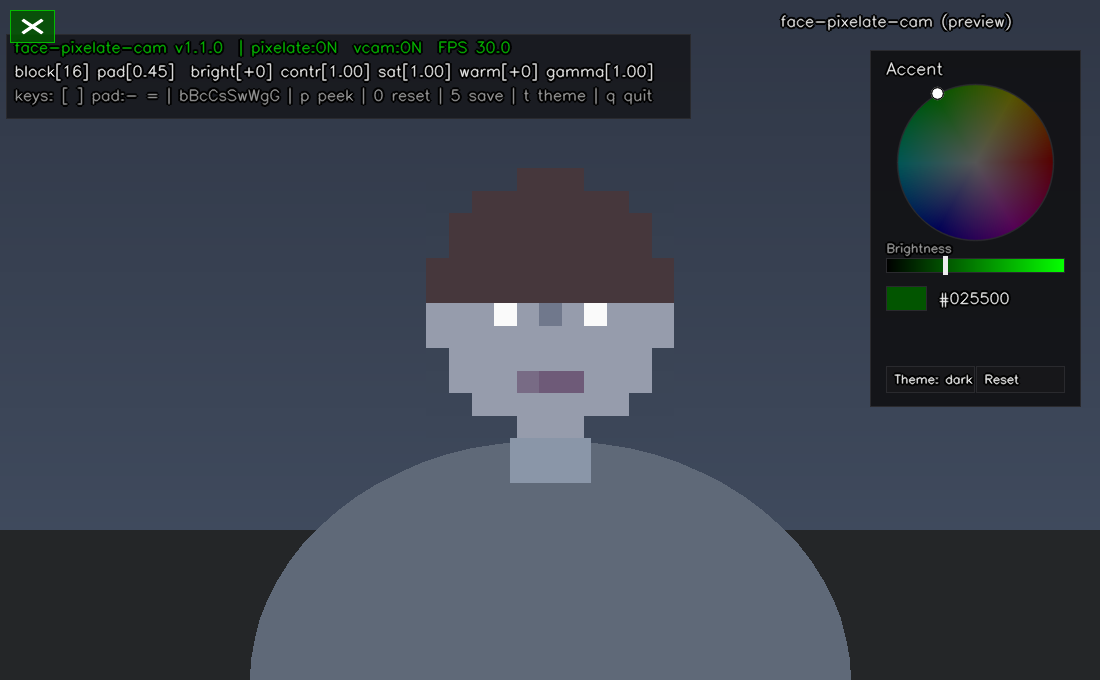
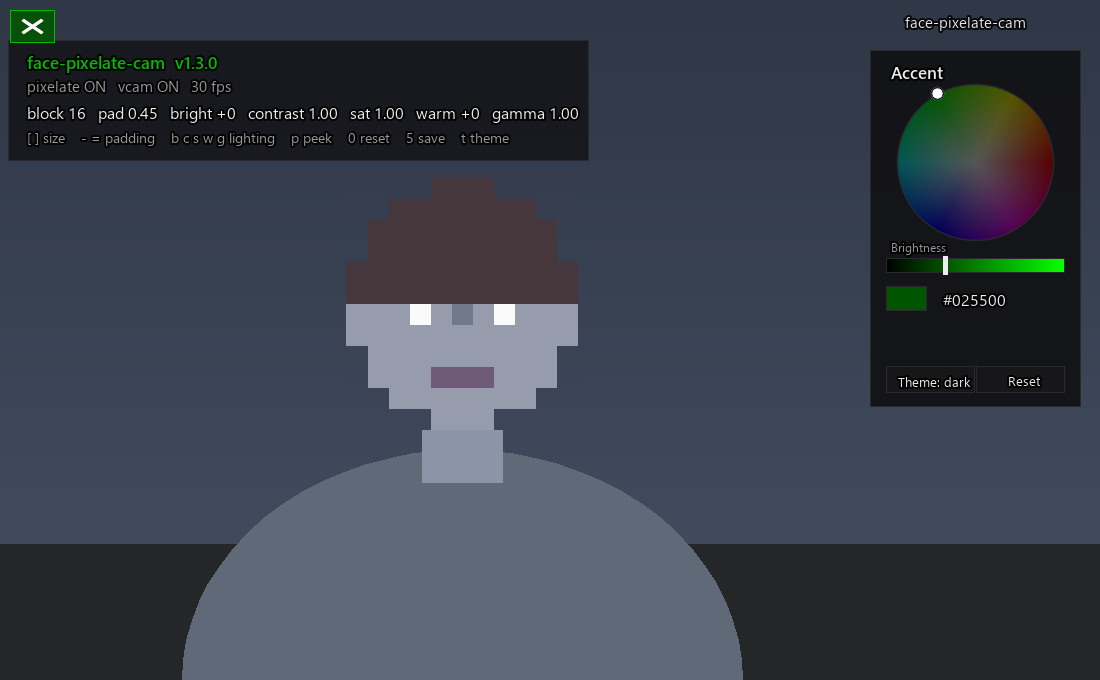
feat: professional TrueType font rendering (Pillow/Segoe UI) with caching (v1.3.0)

diff --git a/pixelate_cam.py b/pixelate_cam.py
@@ -66,6 +66,123 @@ try:
 except ImportError:
     HAVE_VCAM = False
 
+try:
+    from PIL import Image, ImageDraw, ImageFont
+    HAVE_PIL = True
+except ImportError:
+    HAVE_PIL = False
+
+
+# ---------------------------------------------------------------------------
+# Professional text rendering via a real TrueType font (Pillow). Falls back to
+# OpenCV's cleaner DUPLEX Hershey font if Pillow or the font is unavailable.
+# Text is rendered to small RGBA patches and alpha-composited onto the frame,
+# so only the text region is touched (no full-frame conversion per string).
+# ---------------------------------------------------------------------------
+
+# Preferred fonts, in order. Segoe UI ships on every Windows machine.
+_FONT_FILES = {
+    False: [r"C:\Windows\Fonts\segoeui.ttf", r"C:\Windows\Fonts\arial.ttf"],
+    True:  [r"C:\Windows\Fonts\seguisb.ttf", r"C:\Windows\Fonts\segoeuib.ttf",
+            r"C:\Windows\Fonts\arialbd.ttf", r"C:\Windows\Fonts\segoeui.ttf"],
+}
+_FONT_CACHE = {}
+
+
+def _load_font(size, bold=False):
+    if not HAVE_PIL:
+        return None
+    key = (int(size), bool(bold))
+    if key in _FONT_CACHE:
+        return _FONT_CACHE[key]
+    font = None
+    for path in _FONT_FILES[bool(bold)]:
+        try:
+            font = ImageFont.truetype(path, int(size))
+            break
+        except Exception:
+            continue
+    if font is None:
+        try:
+            font = ImageFont.load_default()
+        except Exception:
+            font = None
+    _FONT_CACHE[key] = font
+    return font
+
+
+def text_width(text, size=16, bold=False):
+    """Pixel width of `text` in the current font (for layout/right-align)."""
+    font = _load_font(size, bold)
+    if font is None:
+        return int(len(text) * size * 0.55)
+    l, _, r, _ = font.getbbox(text)
+    return int(r - l)
+
+
+_TEXT_CACHE = {}
+
+
+def _render_text_patch(text, size, bold, color_bgr, outline):
+    """Render text to a cached BGRA patch (B,G,R,alpha as float32 0..1 alpha).
+
+    Cached by content so steady-state overlays only pay compositing cost, not
+    re-rasterization. Returns (bgr_float, alpha) or None if PIL unavailable.
+    """
+    font = _load_font(size, bold)
+    if font is None:
+        return None
+    key = (text, int(size), bool(bold), tuple(color_bgr), int(outline))
+    cached = _TEXT_CACHE.get(key)
+    if cached is not None:
+        return cached
+    l, t, r, b = font.getbbox(text, stroke_width=outline)
+    pad = outline + 1
+    pw, ph = (r - l) + pad * 2, (b - t) + pad * 2
+    img = Image.new("RGBA", (max(1, pw), max(1, ph)), (0, 0, 0, 0))
+    draw = ImageDraw.Draw(img)
+    fill = (color_bgr[2], color_bgr[1], color_bgr[0], 255)          # BGR -> RGB
+    draw.text((pad - l, pad - t), text, font=font, fill=fill,
+              stroke_width=outline, stroke_fill=(0, 0, 0, 210))
+    arr = np.asarray(img)
+    bgr = arr[..., 2::-1].astype(np.float32)                        # RGB -> BGR
+    alpha = arr[..., 3:4].astype(np.float32) / 255.0
+    out = (bgr, alpha)
+    _TEXT_CACHE[key] = out
+    if len(_TEXT_CACHE) > 160:
+        _TEXT_CACHE.pop(next(iter(_TEXT_CACHE)))
+    return out
+
+
+def blit_text(frame, text, xy, color_bgr, size=16, bold=False, outline=2):
+    """Draw `text` at top-left `xy` onto the BGR `frame` in-place (TTF)."""
+    if not text:
+        return
+    patch = _render_text_patch(text, size, bold, color_bgr, outline)
+    if patch is None:
+        # Hershey fallback (DUPLEX is noticeably cleaner than SIMPLEX).
+        scale = size / 30.0
+        base = (int(xy[0]), int(xy[1]) + int(size * 0.9))
+        if outline:
+            cv2.putText(frame, text, base, cv2.FONT_HERSHEY_DUPLEX, scale,
+                        (0, 0, 0), 3, cv2.LINE_AA)
+        cv2.putText(frame, text, base, cv2.FONT_HERSHEY_DUPLEX, scale,
+                    color_bgr, 1, cv2.LINE_AA)
+        return
+    bgr, alpha = patch
+    ph, pw = bgr.shape[:2]
+    x, y = int(xy[0]), int(xy[1])
+    fh, fw = frame.shape[:2]
+    x0, y0 = max(0, x), max(0, y)
+    x1, y1 = min(fw, x + pw), min(fh, y + ph)
+    if x1 <= x0 or y1 <= y0:
+        return
+    sx0, sy0 = x0 - x, y0 - y
+    a = alpha[sy0:sy0 + (y1 - y0), sx0:sx0 + (x1 - x0)]
+    c = bgr[sy0:sy0 + (y1 - y0), sx0:sx0 + (x1 - x0)]
+    roi = frame[y0:y1, x0:x1].astype(np.float32)
+    frame[y0:y1, x0:x1] = (c * a + roi * (1 - a)).astype(np.uint8)
+
 
 if getattr(sys, "frozen", False):
     # Running inside a PyInstaller one-file exe: bundled data (the model) is
@@ -110,7 +227,7 @@ def fatal(msg):
 # silently ignored so they never disrupt streaming.
 # ---------------------------------------------------------------------------
 
-APP_VERSION = "1.2.0"
+APP_VERSION = "1.3.0"
 REPO = "phurteau/face-pixelate-cam"
 RELEASES_PAGE = f"https://github.com/{REPO}/releases/latest"
 # How long the banner stays on screen (seconds) before auto-hiding, so it never
@@ -560,14 +677,6 @@ def point_in_button(x, y):
     return bx <= x <= bx + bw and by <= y <= by + bh
 
 
-def _text(frame, text, org, color, scale=0.5, thick=1):
-    """Draw text with a subtle dark outline so it stays legible over video."""
-    cv2.putText(frame, text, org, cv2.FONT_HERSHEY_SIMPLEX, scale,
-                (0, 0, 0), thick + 2, cv2.LINE_AA)
-    cv2.putText(frame, text, org, cv2.FONT_HERSHEY_SIMPLEX, scale,
-                color, thick, cv2.LINE_AA)
-
-
 def draw_button(frame, show_help, th):
     """Corner show/hide button. Neutral panel surface; active state fills accent."""
     x, y, w, h = UI_BUTTON
@@ -595,44 +704,46 @@ def draw_update_banner(frame, text, th):
     is stream-safe. In Window-Capture (clean) mode it auto-hides.
     """
     h, w = frame.shape[:2]
-    bar_h = 30
+    bar_h = 34
     y0 = h - bar_h
     overlay = frame.copy()
     cv2.rectangle(overlay, (0, y0), (w, h), th["acc"], -1)      # primary fill
-    cv2.addWeighted(overlay, 0.85, frame, 0.15, 0, frame)
+    cv2.addWeighted(overlay, 0.88, frame, 0.12, 0, frame)
     cv2.line(frame, (0, y0), (w, y0), th["acc2"], 1)           # accent top edge
-    cv2.circle(frame, (16, y0 + bar_h // 2), 5, th["acc2"], -1, cv2.LINE_AA)
-    cv2.putText(frame, text, (30, y0 + 20), cv2.FONT_HERSHEY_SIMPLEX, 0.5,
-                th["acc_ink"], 1, cv2.LINE_AA)                  # ink reads on accent
+    cv2.circle(frame, (18, y0 + bar_h // 2), 5, th["acc2"], -1, cv2.LINE_AA)
+    blit_text(frame, text, (34, y0 + 9), th["acc_ink"], size=16, outline=0)
     return frame
 
 
 def draw_help(frame, s, fps, using_vcam, th):
     lines = [
-        f"face-pixelate-cam v{APP_VERSION}  | "
-        f"pixelate:{'ON' if s['pixelate_on'] else 'OFF'}  "
-        f"vcam:{'ON' if using_vcam else 'preview-only'}  FPS {fps:4.1f}",
-        f"block[{s['block']}] pad[{s['padding']:.2f}]  "
-        f"bright[{s['brightness']:+.0f}] contr[{s['contrast']:.2f}] "
-        f"sat[{s['saturation']:.2f}] warm[{s['warmth']:+.0f}] gamma[{s['gamma']:.2f}]",
-        "keys: [ ] pad:- = | bBcCsSwWgG | p peek | 0 reset | 5 save | t theme | q quit",
+        (f"face-pixelate-cam  v{APP_VERSION}", th["acc2"], True, 17),
+        (f"pixelate {'ON' if s['pixelate_on'] else 'OFF'}   "
+         f"vcam {'ON' if using_vcam else 'preview'}   {fps:2.0f} fps",
+         th["dim"], False, 15),
+        (f"block {s['block']}   pad {s['padding']:.2f}   "
+         f"bright {s['brightness']:+.0f}   contrast {s['contrast']:.2f}   "
+         f"sat {s['saturation']:.2f}   warm {s['warmth']:+.0f}   "
+         f"gamma {s['gamma']:.2f}", th["txt"], False, 16),
+        ("[ ] size    - = padding    b c s w g lighting    "
+         "p peek    0 reset    5 save    t theme", th["dim"], False, 14),
     ]
-    # Neutral panel card behind the text for a themed, legible surface.
-    pad = 8
-    y = 52
-    line_h = 24
-    x0 = 6
-    x1 = min(frame.shape[1] - 6, 690)
-    y_top = y - 18
-    y_bot = y + line_h * len(lines) - 6
+    pad = 14
+    x0 = 8
+    y = 50
+    row_h = 26
+    widths = [text_width(t, sz, bold) for (t, _, bold, sz) in lines]
+    x1 = min(frame.shape[1] - 8, x0 + max(widths) + pad * 2)
+    y_top = y - 10
+    y_bot = y + row_h * len(lines) + 6
     overlay = frame.copy()
     cv2.rectangle(overlay, (x0, y_top), (x1, y_bot), th["panel"], -1)
-    cv2.addWeighted(overlay, 0.72, frame, 0.28, 0, frame)
+    cv2.addWeighted(overlay, 0.78, frame, 0.22, 0, frame)
     cv2.rectangle(frame, (x0, y_top), (x1, y_bot), th["line"], 1)
-    # First line uses the accent companion; rest uses primary/dim text.
-    _text(frame, lines[0], (x0 + pad, y), th["acc2"])
-    _text(frame, lines[1], (x0 + pad, y + line_h), th["txt"])
-    _text(frame, lines[2], (x0 + pad, y + line_h * 2), th["dim"])
+    cy = y
+    for (txt, color, bold, sz) in lines:
+        blit_text(frame, txt, (x0 + pad, cy), color, size=sz, bold=bold)
+        cy += row_h
     return frame
 
 
@@ -705,6 +816,28 @@ def render_color_wheel(radius, value):
     return bgr, mask
 
 
+_BAR_CACHE = {}
+
+
+def render_brightness_bar(hue, sat, bw, bh):
+    """Vectorized + cached Value ramp strip for the given hue/saturation."""
+    key = (int(round(hue)), int(round(sat * 50)), bw, bh)
+    cached = _BAR_CACHE.get(key)
+    if cached is not None:
+        return cached
+    vals = (np.linspace(0, 1, bw, dtype=np.float32) * 255).astype(np.uint8)
+    row = np.zeros((1, bw, 3), np.uint8)
+    row[0, :, 0] = int(round((hue % 360) / 2.0))          # OpenCV hue 0-179
+    row[0, :, 1] = int(round(max(0.0, min(1.0, sat)) * 255))
+    row[0, :, 2] = vals
+    strip = cv2.cvtColor(row, cv2.COLOR_HSV2BGR)
+    strip = np.repeat(strip, bh, axis=0)
+    _BAR_CACHE[key] = strip
+    if len(_BAR_CACHE) > 48:
+        _BAR_CACHE.pop(next(iter(_BAR_CACHE)))
+    return strip
+
+
 def picker_geometry(frame_w, frame_h):
     """Compute the picker panel layout for the current frame size."""
     pw, ph = 210, 356
@@ -732,7 +865,7 @@ def draw_picker(frame, s, th, geom):
     cv2.rectangle(overlay, (px, py), (px + pw, py + ph), th["panel"], -1)
     cv2.addWeighted(overlay, 0.9, frame, 0.1, 0, frame)
     cv2.rectangle(frame, (px, py), (px + pw, py + ph), th["line"], 1)
-    _text(frame, "Accent", (px + 16, py + 24), th["txt"], 0.55)
+    blit_text(frame, "Accent", (px + 16, py + 12), th["txt"], size=17, bold=True)
 
     r, g, b = hex_to_rgb(s["accent"])
     h, sat, val = rgb_to_hsv(r, g, b)
@@ -750,23 +883,21 @@ def draw_picker(frame, s, th, geom):
     cv2.circle(frame, dot, 6, (255, 255, 255), -1, cv2.LINE_AA)
     cv2.circle(frame, dot, 6, (0, 0, 0), 1, cv2.LINE_AA)
 
-    # Brightness (Value) bar.
+    # Brightness (Value) bar -- vectorized + cached (only re-rendered when the
+    # hue/saturation change), then blitted as a strip.
     bx, by, bw, bh = geom["bar"]
-    for i in range(bw):
-        vv = i / max(1, bw - 1)
-        col = hsv_to_rgb(h, sat, vv)
-        cv2.line(frame, (bx + i, by), (bx + i, by + bh),
-                 (int(col[2]), int(col[1]), int(col[0])), 1)
+    strip = render_brightness_bar(h, sat, bw, bh)
+    frame[by:by + bh, bx:bx + bw] = strip
     cv2.rectangle(frame, (bx, by), (bx + bw, by + bh), th["line"], 1)
     hx = bx + int(val * bw)
     cv2.rectangle(frame, (hx - 2, by - 2), (hx + 2, by + bh + 2), th["txt"], -1)
-    _text(frame, "Brightness", (bx, by - 6), th["dim"], 0.4)
+    blit_text(frame, "Brightness", (bx, by - 20), th["dim"], size=12)
 
     # Swatch + hex readout.
     sx, sy, sw, sh = geom["swatch"]
     cv2.rectangle(frame, (sx, sy), (sx + sw, sy + sh), th["acc"], -1)
     cv2.rectangle(frame, (sx, sy), (sx + sw, sy + sh), th["line"], 1)
-    _text(frame, s["accent"], (sx + sw + 12, sy + 17), th["txt"], 0.5)
+    blit_text(frame, s["accent"].upper(), (sx + sw + 12, sy + 4), th["txt"], size=16)
 
     # Theme + Reset buttons.
     for key, label in (("theme_btn", f"Theme: {s['theme']}"),
@@ -774,7 +905,9 @@ def draw_picker(frame, s, th, geom):
         bxx, byy, bww, bhh = geom[key]
         cv2.rectangle(frame, (bxx, byy), (bxx + bww, byy + bhh), th["panel2"], -1)
         cv2.rectangle(frame, (bxx, byy), (bxx + bww, byy + bhh), th["line"], 1)
-        _text(frame, label, (bxx + 8, byy + 17), th["txt"], 0.4)
+        lw = text_width(label, 13)
+        blit_text(frame, label, (bxx + max(6, (bww - lw) // 2), byy + 6),
+                  th["txt"], size=13)
     return frame
 
 

diff --git a/README.md b/README.md
@@ -186,6 +186,9 @@ focus/active states - so any accent looks good against the neutral surfaces.
 - Your theme and accent **persist** to `settings.json` (saved when you close the
   picker or press **`5`**). You can also set them from the command line:
   `run.bat --accent "#3aa0ff" --theme light`.
+- All overlay text is rendered with a real **TrueType font** (Segoe UI on
+  Windows) via Pillow for a clean, professional look, with an automatic
+  fallback if the font/library isn't available.
 
 ---
 